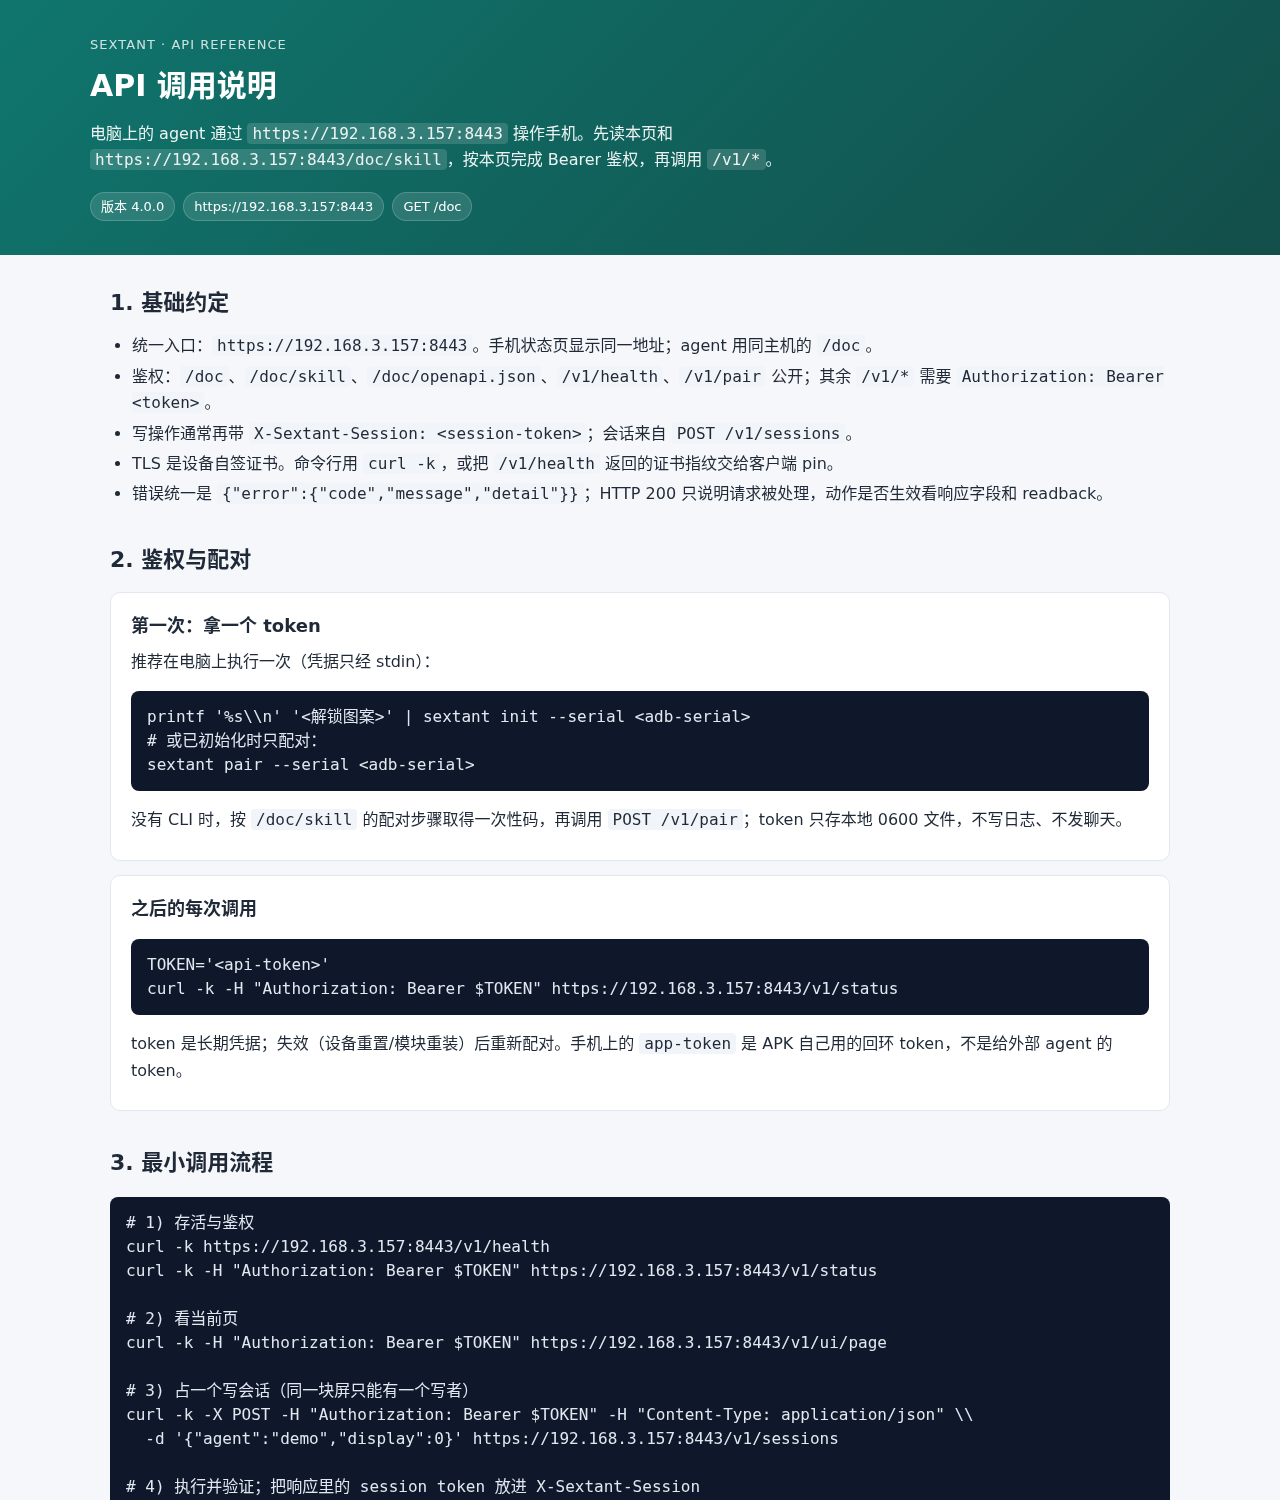
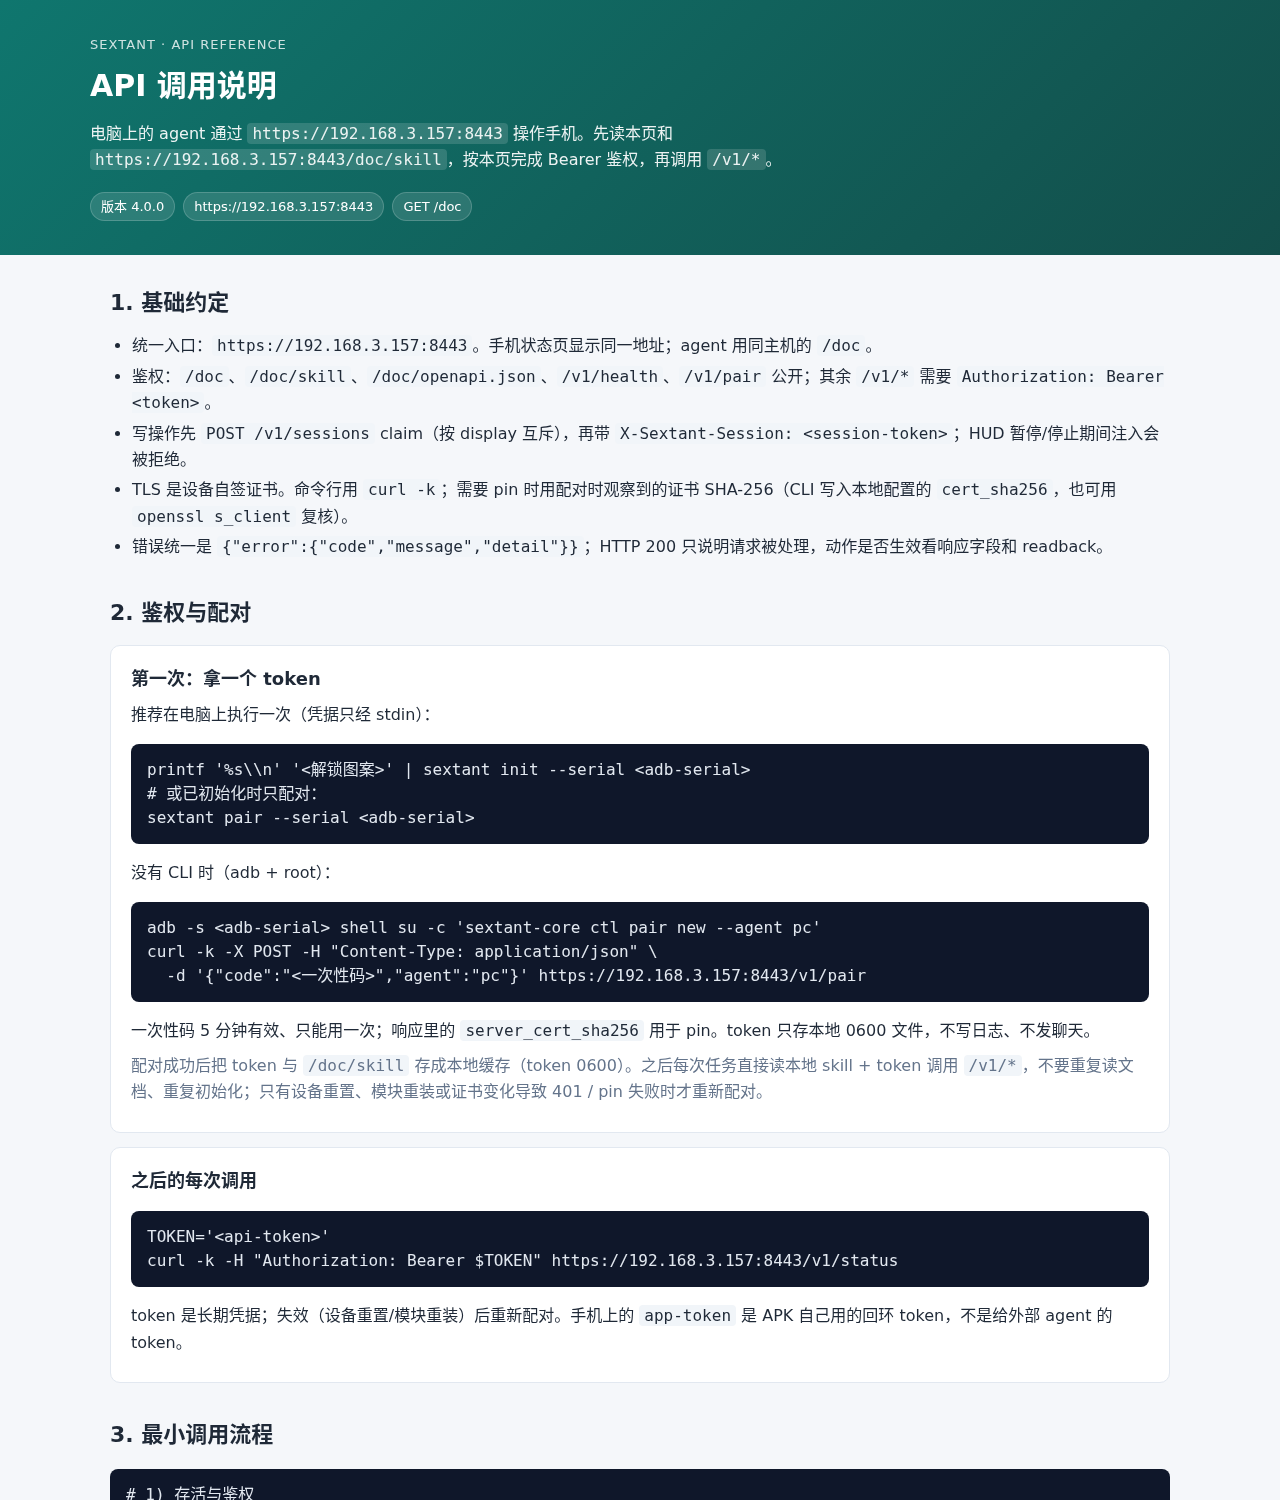
docs: /doc 最终构建真机复核通过

Changed region(s): [[0.0938, 0.276, 0.9062, 0.736], [0.0625, 0.7667, 0.9375, 1.0]]

diff --git a/docs/TASKS.md b/docs/TASKS.md
@@ -54,7 +54,7 @@
 | S21 | D30 拟人操作与验证码分流：种子化落点/间隔/限速、challenge 分类与滑块自解、risk/cooldown、handover | `DONE`（检测分流部分 SKIP 说明见债务） | 同 seed 两次 tap 落点一致；10 次 tap interval 702–1482ms（区间 700–1600）、dispatch 36–62ms；handover 后注入 409、return 后恢复；设置页 challenge=none；滑块/短信验证码页无真机样本，分类与分流以单测覆盖（22 项新增） |
 | S23 | D32 agent 引导入口：`/doc` 的 `x-chopin-guidance`（install/use）与 SKILL.md「从零安装」 | `DONE` | `GET /doc` 返回 10 步、两阶段；`/doc/skill` 含「从零安装」；init 命令只经 stdin；单测锁定字段与阶段 |
 | S27 | D38 Sextant 全量技术改名：CLI/模块/APK/状态目录/请求头/环境变量 + 迁移脚本 | `DONE` | 静态门禁 28/0；真机迁移完成（旧模块/APK/守护消失）；doctor 8/8；acceptance PASS 41 / FAIL 0 / SKIP 0；journey PASS 21 / FAIL 0 |
-| S28 | D39 `/doc` 人机双入口：HTML 说明页 + `/doc/openapi.json`/`/openapi.json`，agent 本地缓存 skill/token | `DONE` | 真机 `GET /doc` 返回 HTML（15 分组、120 端点行、无外部资源），`/doc/openapi.json` 与 `/openapi.json` 均为 OpenAPI 3.1（113 paths），`Accept: application/json` 仍返回 JSON；HTML 页头 CSP/nosniff/no-store；`/doc/skill` 标为公开；单测覆盖协商、别名、分组全覆盖；静态门禁 28/0；doctor 8/8；acceptance PASS 40 / FAIL 0 / SKIP 1（find 无探测串）；journey PASS 21 / FAIL 0。子代理首次接入：按 `/doc` 鉴权、缓存 SKILL.md 与 0600 token、health/status/page 全 200；第二个子代理只读本地缓存完成同样三个请求，`paired_at` 未变、未重新抓 `/doc`、未重新配对；最终 act 示例/错误码/鉴权文案修正已过单测与静态门禁，设备上线后部署复核 |
+| S28 | D39 `/doc` 人机双入口：HTML 说明页 + `/doc/openapi.json`/`/openapi.json`，agent 本地缓存 skill/token | `DONE` | 真机 `GET /doc` 返回 HTML（15 分组、120 端点行、无外部资源），`/doc/openapi.json` 与 `/openapi.json` 均为 OpenAPI 3.1（113 paths），`Accept: application/json` 仍返回 JSON；HTML 页头 CSP/nosniff/no-store；`/doc/skill` 标为公开；单测覆盖协商、别名、分组全覆盖；静态门禁 28/0；doctor 8/8；acceptance PASS 40 / FAIL 0 / SKIP 1（find 无探测串）；journey PASS 21 / FAIL 0。子代理首次接入：按 `/doc` 鉴权、缓存 SKILL.md 与 0600 token、health/status/page 全 200；第二个子代理只读本地缓存完成同样三个请求，`paired_at` 未变、未重新抓 `/doc`、未重新配对；最终构建 2026-11-24 真机复核：acceptance PASS 40 / FAIL 0 / SKIP 1（find 无探测串）、journey PASS 21 / FAIL 0、doctor 8/8，act 示例/错误码/鉴权文案与页面逐项核对通过 |
 | S26 | D37 会话活动信号与僵尸回收：业务请求续期、`zombie_sec` 300s、CLI 本地会话 + heartbeat | `DONE` | 真机：只心跳不操作 6s 被回收并锁屏；持续 page 6s 不被回收；release 锁屏；CLI 后续命令自动带 session；acceptance 41/0/0、journey 21/0（首次 map 抽样失败重跑通过） |
 | S25 | D36 任务收尾与屏幕联动：`finishTask`、`stale_sec` 180s | `DONE` | 正常 release 后 `task finished (release); screen locked` 且 screen OFF/keyguard true；短 stale 配置下异常回收并锁屏；HUD stop 也收尾锁屏；acceptance 41/0/0、journey 21/0 |
 | S24 | D35 会话后台回收：`session.reap_sec` 后台 reaper | `DONE` | 真机 idle_sec=3/reap_sec=1：claim 后 8s 会话消失，审计 `session: reaped 1 expired session(s)`；单测周期/取消/0 禁用；acceptance 41/0/0、journey 21/0 |
